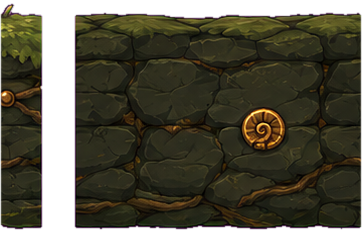
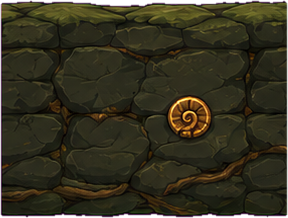
Bridgevine: stop stretching the terrain and strut art
Two compounding problems. First, two world cutouts each contained a stray sliver
fragment from the source sheet alongside the real piece (ledge_body 362x233 held a
43px column; ledge_edge 357x261 held a 21px one). Re-cut both to the largest
alpha-connected component. Left strut_snap and wind_wisp alone — they are
legitimately multi-part and "keep largest" would have destroyed them.

Second, the draws scaled non-uniformly. Terrain rects are 44px-tall banks 72-540px
wide and the art is ~1.4:1, so a rock slab got smeared to 3.9:1 and the floating
island rendered as a flat pancake. Now: the island keeps its aspect with its
underside hanging below the collision rect, and the ground bank tiles at native
aspect (clipped to the rect, body running off the bottom) with the bracket cap
finishing any cliff edge that has room. Struts got the same treatment — a 3:1 vine
stretched across a 300px span smeared the braid, so end caps now keep their aspect
and the middle tiles.

Verified by screenshot on trials 0 and 8, no page errors.

diff --git a/satellites/bridgevine/index.html b/satellites/bridgevine/index.html
@@ -665,6 +665,24 @@ function drawSpriteFit(im,cx,cy,size){ var nw=im.naturalWidth, nh=im.naturalHeig
 /* stretched + rotated draw along a segment (w=length, h=thickness) */
 function drawSpriteWH(im,cx,cy,w,h,ang){ if(!im.naturalWidth)return;
   ctx.save(); ctx.translate(cx,cy); if(ang)ctx.rotate(ang); ctx.drawImage(im,-w/2,-h/2,w,h); ctx.restore(); }
+/* 3-slice draw along a segment: end caps keep their native aspect, the middle TILES.
+   Struts span anything from 40px to 300px — stretching one 3:1 sprite across that
+   smears the braid. Caps + tiled middle keeps the rope reading at its drawn thickness. */
+function drawStrutSeg(im,ax,ay,bx,by,th){
+  var nw=im.naturalWidth, nh=im.naturalHeight; if(!nw||!nh)return;
+  var dx=bx-ax, dy=by-ay, len=Math.sqrt(dx*dx+dy*dy); if(len<1)return;
+  var sc=th/nh, full=nw*sc;
+  ctx.save(); ctx.translate(ax,ay); ctx.rotate(Math.atan2(dy,dx));
+  if(len<=full*1.08){ ctx.drawImage(im,0,-th/2,len,th); ctx.restore(); return; }
+  var capS=nw*0.24, capW=capS*sc, midS=nw-capS*2, midW=midS*sc;
+  ctx.drawImage(im, 0,0,capS,nh,           0,-th/2,      capW,th);
+  ctx.drawImage(im, nw-capS,0,capS,nh,     len-capW,-th/2, capW,th);
+  if(midW>0.5){
+    var x=capW, endX=len-capW;
+    ctx.save(); ctx.beginPath(); ctx.rect(capW,-th/2,Math.max(0,endX-capW),th); ctx.clip();
+    while(x<endX){ ctx.drawImage(im, capS,0,midS,nh, x,-th/2, midW,th); x+=midW; }
+    ctx.restore(); }
+  ctx.restore(); }
 var POD_IMG={ sprout:"pod_sprout", acorn:"pod_acorn", lantern:"pod_lantern", berry:"pod_berry" };
 /* ---- FX sprites (canvas, additive, ready-gated; procedural bloom kept) ---- */
 function spawnFX(name,x,y,o){ if(!G||PROG.fx===false)return; o=o||{};
@@ -697,21 +715,37 @@ function ambientFX(){ if(!G||PROG.fx===false)return;
       { vx:(fromLeft?1:-1)*(0.8+Math.random()*0.6), vy:0.2+Math.random()*0.3, vr:(Math.random()-0.5)*0.14,
         rot:Math.random()*6.283, ttl:210, s0:16, s1:16, add:false }); } }
 /* ---- terrain sprite draw (ground ledges + floating shelves; procedural fallback) ---- */
+/* Terrain rects are 44px-tall ground banks 72-540px wide, plus mid-air shelves.
+   The art is a ~1.4:1 island and a ~1.36:1 ledge block, so scaling either to fit an
+   arbitrary rect smears it. Nothing here scales non-uniformly: the island keeps its
+   aspect and its underside hangs BELOW the collision rect, and the ground bank TILES
+   at native aspect, clipped to the rect, with its body running off the bottom. */
 function drawTerrain(r){
   var floating=(r.y+r.h)<(H-3);
-  var body=floating?artImg("world","terrain_shelf_floating"):artImg("world","terrain_ledge_body");
-  if(imgReady(body)){
-    ctx.drawImage(body,r.x,r.y,r.w,r.h);
-    if(!floating){
-      var top=artImg("world","terrain_ledge_top");
-      if(imgReady(top))ctx.drawImage(top,r.x,r.y-6,r.w,16);
-      var edge=artImg("world","terrain_ledge_edge");
-      if(imgReady(edge)){ var ew=Math.min(18,r.w*0.5);
-        if(r.x+r.w<W-1)ctx.drawImage(edge,r.x+r.w-ew,r.y-4,ew,r.h+8);
-        if(r.x>1){ ctx.save(); ctx.translate(r.x+ew,r.y-4); ctx.scale(-1,1);
-          ctx.drawImage(edge,0,0,ew,r.h+8); ctx.restore(); } }
-    }
-    return;
+  if(floating){
+    var isl=artImg("world","terrain_shelf_floating");
+    if(imgReady(isl)){
+      var iar=isl.naturalWidth/isl.naturalHeight;
+      var dw=r.w*1.10, dh=dw/iar;               // overhang a touch past the landing rect
+      ctx.drawImage(isl, r.x-(dw-r.w)/2, r.y-dh*0.10, dw, dh);
+      return; }
+  } else {
+    var tile=artImg("world","terrain_ledge_top");
+    if(imgReady(tile)){
+      var th=Math.max(r.h*2,96);                 // taller than the rect; the excess runs offscreen
+      var tw=th*(tile.naturalWidth/tile.naturalHeight);
+      var ty=r.y-th*0.12;                        // grass tufts poke above the walkable line
+      ctx.save(); ctx.beginPath(); ctx.rect(r.x,ty,r.w,H-ty+8); ctx.clip();
+      var x; for(x=r.x;x<r.x+r.w;x+=tw) ctx.drawImage(tile,x,ty,tw,th);
+      var cap=artImg("world","terrain_ledge_edge");
+      if(imgReady(cap)){
+        var cw=th*(cap.naturalWidth/cap.naturalHeight);
+        if(r.w>=cw){                             // only cap ledges wide enough to hold one
+          if(r.x+r.w<W-1) ctx.drawImage(cap,r.x+r.w-cw,ty,cw,th);
+          if(r.x>1){ ctx.save(); ctx.translate(r.x+cw,ty); ctx.scale(-1,1);
+            ctx.drawImage(cap,0,0,cw,th); ctx.restore(); } } }
+      ctx.restore();
+      return; }
   }
   ctx.fillStyle="#1a2415"; ctx.fillRect(r.x,r.y,r.w,r.h);
   ctx.fillStyle="#2c3e20"; ctx.fillRect(r.x,r.y,r.w,6);
@@ -777,7 +811,7 @@ function render(){
     if(imgReady(sImg)){
       var sdx=b.x-a.x, sdy=b.y-a.y, slen=Math.sqrt(sdx*sdx+sdy*sdy)||1;
       var sth=Math.max(s.crystal?14:12, Math.min(s.crystal?24:22, slen*(s.crystal?0.34:0.30)));
-      drawSpriteWH(sImg,(a.x+b.x)/2,(a.y+b.y)/2,slen,sth,Math.atan2(sdy,sdx));
+      drawStrutSeg(sImg,a.x,a.y,b.x,b.y,sth);
     } else {
       ctx.strokeStyle=col; ctx.lineWidth=s.crystal?5:3.5;
       ctx.beginPath(); ctx.moveTo(a.x,a.y); ctx.lineTo(b.x,b.y); ctx.stroke();
